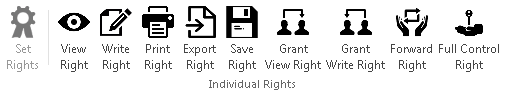
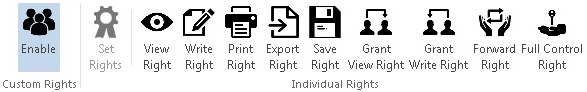
New construction. New information. Better look.

Changed region(s): [[0.0, 0.0217, 1.0, 0.7826], [0.4142, 0.8696, 0.6509, 0.9783], [0.0, 0.8696, 0.1479, 0.9783]]

diff --git a/content/000_enhancedRMS/functions.md b/content/000_enhancedRMS/functions.md
@@ -7,12 +7,10 @@ draft = false
 
 
 
-
-
 Das *enhancedRMS* AddIn besitzt eine Vielzahl an Rechten, die für User ausgesprochen werden können. Im Folgenden sind sämtliche Rechte einmal aufgelistet:
 
-1. View Right / Leserecht
-2. Write Right / Schreiberecht
+1. **View Right / Leserecht**
+2. **Write Right / Schreibrecht**
 3. Print Right / Druckrecht
 4. Export Right / Exportierrecht
 5. Save Right / Speicherrecht
@@ -21,87 +19,60 @@ Das *enhancedRMS* AddIn besitzt eine Vielzahl an Rechten, die für User ausgespr
 8. Forward Right / Das Recht auf Weiterleitung
 9. Full Control Right / Das Recht der vollen Kontrolle
 
-#### Das Leserecht
+Nur die in der Aufzählung markierten Rechte sind bislang implementiert. Diese können erfolgreich verwendet werden, um ein Dokument gegen unautorisiertes Öffnen beziehungsweise Bearbeiten zu schützen. Im Folgenden werden die Möglichkeiten aufgezeigt, die ein Nutzer bei gewährtem Recht erhält. Die noch nicht implementierten Rechte sind dabei ebenfalls aufgeführt. Ihr Grundgedanke und ihre mögliche Anwendung wurden vorerst mit in diese Auflistung aufgenommen.
 
-Das Leserecht ermöglicht es dem Benutzer den Text eines Dokumentes zu lesen. Dabei kann er jedoch nur den Text lesen, für welchen er auch das Leserecht ausgestellt bekommen hat. Besteht beispielsweise ein Dokument aus mehreren Kapiteln und der Autor des Dokumentes hat der besagten Person lediglich das Leserecht für das erste Kapitel erteilt, so kann dieser Nutzer auch lediglich das erste Kapitel lesen, nachdem er das Dokument geöffnet hat.
+Eine Anleitung, wie Sie ein Dokument mit einem Rechten versehen und den Dokumentenschutz anwenden finden Sie [hier](/000_enhancedrms/examples/#vergabe-von-rechten-für-ein-dokument)
 
-#### Das Schreiberecht
+### **Das Leserecht**
 
-Bei dem Schreiberecht kann der Nutzer, dem das Recht erteilt wurde, den Text innerhalb des Textabschnittes bearbeiten. Er kann lediglich innerhalb des Abschnittes Ergänzungen bzw. Löschungen vornehmen. Besitzt der Benutzer, abgesehen von dem Schreiberecht auf einen Textabschnitt, sonst beispielsweise nur das Leserecht auf sämtlichen anderen Textabschnitten eines Dokumentes, so sind diese unbearbeitbar.
+Das Leserecht ermöglicht es dem Benutzer den Text eines Dokumentes zu lesen. Dabei kann er jedoch nur den Text lesen, für welchen er auch das Leserecht ausgestellt bekommen hat. Besteht beispielsweise ein Dokument aus mehreren Kapiteln und der Autor des Dokumentes hat der besagten Person lediglich das Leserecht für das erste Kapitel erteilt, so kann dieser Nutzer auch lediglich das erste Kapitel lesen, nachdem er das Dokument geöffnet hat. Alle restlichen Textabschnitte werden dem Nutzer nicht angezeigt. Er hat keine Möglichkeit herauszufinden, ob das Dokument ursprünglich mehr Text enthält als er zu Sehen bekommt.
 
-#### Das Druckrecht
+### **Das Schreibrecht**
 
-**NOCH NICHT IMPLEMENTIERT**
-Mit Hilfe dieses Rechtes können Sie festlegen, welche Personen ihr Dokument drucken können. 
-**TODO: Wie soll dies geschehen? Textmakierung?**
+Bei dem Schreiberecht kann der Nutzer, dem das Recht erteilt wurde, den Text innerhalb des Textabschnittes bearbeiten. Er kann lediglich innerhalb des Abschnittes Ergänzungen bzw. Löschungen vornehmen. Jegliche andere Bereiche sind nicht zu beschreiben. Eine Markierung des Bereiches visualisiert dem Benutzer, in welchem Bereich er Änderungen vornhemen kann und in welchem Bereich nicht.
 
-#### Das Exportierrecht
+### Das Druckrecht
 
 **NOCH NICHT IMPLEMENTIERT**
-Dieses Recht ermöglicht dem Benutzer das Dokument zu exportieren. Exportieren umfasst hierbei den Export von einem Worddokument in ein Dokument mit anderer Endung. Beispielsweise kann eine .docx Datei per Export in eine .odt, .doc oder .rtf Datei umgewandelt werden. Außerdem kann aus ihr ein PDF/XPS Dokument erstellt werden.
-**TODO: Wie soll dies geschehen? Textmakierung?**
 
-#### Das Speicherrecht
+Mit Hilfe dieses Rechtes können Sie festlegen, welche Personen ihr Dokument drucken können. Dabei ist noch nicht bekannt, wie dieses Recht am Ende implementiert wird. Dabei könnte beispielsweise nur der markierte Bereich mit einem Druckrecht versehen  oder das komplette Dokument mit dem Setzen des Rechtes zum Drucken freigegeben werden.
 
-**NOCH NICHT IMPLEMENTIERT**
-Mit Hilfe dieses Rechts ist ein Benutzer lediglich in der Lage, das Dokument unter einem anderen Namen abzuspeichern (das Dokument zu kopieren).
-**TODO: Wie soll dies geschehen? Textmakierung?**
-
-#### Das Recht auf Weitergabe des Leserechts
+### Das Exportierrecht
 
 **NOCH NICHT IMPLEMENTIERT**
-Sobald Sie dieses Recht einem Benutzer aussprechen hat dieser die Möglichkeit, weiteren Nutzern das Leserecht zu erteilen. Geben Sie der Person allerdings dieses Recht nur für einen bestimmten Textabschnitt, so kann er auch nur für diesen Textabschnitt das Leserecht an andere Personen weitergeben.
+
+Dieses Recht ermöglicht dem Benutzer das Dokument zu exportieren. Exportieren umfasst hierbei den Export von einem Worddokument in ein Dokument mit anderer Endung. Beispielsweise kann eine .docx Datei per Export in eine .odt, .doc oder .rtf Datei umgewandelt werden. Außerdem kann aus ihr ein PDF/XPS Dokument erstellt werden. Auch hier ist weiterhin unklar, wie dieses in Zukunft implementiert wird.
 
 
-#### Das Recht auf Weitergabe des Schreiberechts
-
-**NOCH NICHT IMPLEMENTIERT**
-Auch hier hat der Benutzer, welcher dieses Recht zugesprochen bekommen hat, die Möglichkeit, anderen Nutzern das Schreibrecht zu erteilen. Geben Sie der Person allerdings dieses Recht nur für einen bestimmten Textabschnitt, so kann er auch nur für diesen Textabschnitt das Schreiberecht anderen Personen erteilen.
-
-#### Das Recht auf Weiterleitung
+### Das Speicherrecht
 
 **NOCH NICHT IMPLEMENTIERT**
-Dieses Recht befähigt eine Person, das Dokument per Email verschicken zu können. 
-**TODO: Wie soll dies geschehen? Textmakierung?**
 
-#### Das Recht der vollen Kontrolle
+Mit Hilfe dieses Rechts ist ein Benutzer lediglich in der Lage, das Dokument unter einem anderen Namen abzuspeichern (das Dokument zu kopieren). Wie die Prozedur beim Setzen des Rechtes aussehen soll, ist bislang ebenfalls unbekannt.
 
+### Das Recht auf Weitergabe des Leserechts
 
 **NOCH NICHT IMPLEMENTIERT**
-Besitzt ein Nutzer dieses Recht, so hat er die gleichen Möglichkeiten wie Sie als Author des Dokumentes. Diese Person gelangt vollen Schreibzugriff auf das Dokument, kann weiteren Nutzern Rechte aussprechen und ihr Dokument nach belieben formatieren, drucken, exportieren etc. 
+
+Sobald Sie dieses Recht einem Benutzer aussprechen, hat dieser die Möglichkeit weiteren Nutzern das Leserecht zu erteilen. Geben Sie der Person allerdings dieses Recht nur für einen bestimmten Textabschnitt, so kann er auch nur für diesen Textabschnitt das Leserecht an andere Personen weitergeben.
 
 
+### Das Recht auf Weitergabe des Schreiberechts
+
+**NOCH NICHT IMPLEMENTIERT**
+
+Auch hier hat der Benutzer, welcher dieses Recht zugesprochen bekommen hat, die Möglichkeit, anderen Nutzern das Schreibrecht zu erteilen. Geben Sie der Person allerdings dieses Recht nur für einen bestimmten Textabschnitt, so kann sie auch nur für diesen Textabschnitt das Schreiberecht anderen Personen erteilen.
+
+### Das Recht auf Weiterleitung
+
+**NOCH NICHT IMPLEMENTIERT**
+
+Dieses Recht befähigt eine Person, das Dokument per Email verschicken zu können. Dabei ist die Idee, dass die E-Mail beispielsweise an eine Person in einer anderen Firma geschickt werden kann, welche nicht im firmeninternen Active Directoy vorhanden ist. Geplant ist damit eine Ausweitung des Schutzes.
+
+### Das Recht der vollen Kontrolle
+
+**NOCH NICHT IMPLEMENTIERT**
+
+Besitzt ein Nutzer dieses Recht, so hat er die gleichen Möglichkeiten wie Sie als Autor des Dokumentes. Diese Person erlangt vollen Schreibzugriff auf das Dokument, kann weiteren Nutzern Rechte aussprechen und ihr Dokument nach belieben formatieren, drucken, exportieren und so weiter. 
 
 
-#### Vergabe von Rechten für ein Dokument
-1. Öffnen Sie Word.
-2. Klicken Sie auf „leeres Dokument“ bzw. öffnen Sie ein bereits verfasstes Dokument.
-3. Bearbeiten Sie das Dokument nach Ihren Vorlieben.
-4. Klicken Sie auf den Tab „enhancedRMS“.
-5. Melden Sie sich mit ihrem Benutzernamen und ihrem Passwort an. Hierbei werden die Logindaten benötigt, die Sie nach dem Hochfahren Ihres PCs eingeben müssen.  Nachdem Sie ihre Daten eingegeben haben, klicken Sie auf „Login“.
-6. Bei korrekter Eingabe können Sie nun Rechte für Ihr Dokument festlegen. Markieren Sie dazu den Textabschnitt, auf den Sie diverse Rechte geben möchten und suchen Sie sich Ihre gewünschten Rechte aus. Hierbei besteht die Möglichkeit mittels der *"General Rights"* Rechte für sämtliche Benutzer und mittels der *"Individual Rights"* Rechte für bestimmte Benutzer zu vergeben.
-6.1. Möchten Sie nun einem bestimmten Benutzer Rechte zuweisen, so öffnen Sie diese Leiste mit einem Klick auf *"Enable"* unter der Rubrik **Custom Rights**. Es öffnet sich nun ein weiterer Teil Ihrer Leiste. Auf der rechten Seite haben Sie nun die Möglichkeit, eine Person hinzuzufügen. Dazu klicken Sie in das Feld *" New User"* und geben dort die Email-Adresse der gewünschten Person ein. Mit einem Klick auf *"Add User"* fügen Sie diesen Benutzer hinzu. Dieser ist nun in dem Feld *"Existing Users"* aufgeführt. Wählen Sie in diesem Feld den Benutzer aus und klicken Sie die gewünschten Rechte für diese Person an. Denken Sie daran, den gewünschten Text zu markieren.
-7. Haben Sie nun Ihre Rechte für den markierten Textabschnitt ausgewählt, so müssen Sie diese nun *setzen*. Dazu klicken Sie auf *"Set Right"*. Haben Sie sowohl generelle Rechte als auch individuelle Rechte ausgewählt, so wird sowohl bei *"General Rights"* als auch bei *"Individual Rights"* ein Klick auf *"Set Rights"* benötigt.
-7.1. Bei einem Klick auf *"Set Rights"* unter den individuellen Rechten öffnen sich danach zwei Fenster bzw. Dialoge. In dem Ersten Fenster werden Sie gefragt, ob Sie, zusätzlich zu ihren individuellen Rechten, auch noch generelle Rechte für den Textabschnitt hinzufügen wollen (Rechte die für jede Person gelten).
-7.2 Im nächsten Fenster haben Sie die Möglichkeit, die eingegebene Person zu behalten oder sie direkt zu entfernen. Wollen Sie nun einer bestimmten Person für mehrere Textabschnitte Rechte zuweisen, so können Sie bei dieser Meldung auf *"Yes"* klicken. Somit sparen Sie sich die erneute Eingabe der Email-Adresse des Benutzers. Klicken Sie auf *"No"*, so wird der Nutzer aus den *"Existing Users"* gelöscht (Sie können Ihn dennoch wieder manuell hinzufügen).
-8. Sie können nun Schritt 5-6 beliebig oft wiederholen und beliebig vielen Personen auf verschiedenen Textabschnitten diverse Rechte aussprechen. 
-9. Haben Sie nun sämtliche Rechte gesetzt, so schließen Sie den Schutz mit einem Klick auf *"Apply"* (ganz links in der Leiste) ab. Danach wird das Dokument verschlüsselt und Sie können es abspeichern.
-10. **Beachte**: Der Schutz wird nur gewährt, wenn Sie das Dokument abspeichern nachdem Sie auf *"Apply"* geklickt haben.
-
-
-#### Ein Dokument öffnen
-
-1. Öffnen Sie Word.
-2. Klicken Sie auf „leeres Dokument“.
-3. Danach sollte sich ein leeres Dokument vor Ihnen befinden, in welches Sie nun schreiben könnten.
-4. Klicken Sie auf den Tab „enhancedRMS“.
-5. Melden Sie sich mit Ihrem Benutzernamen und Ihrem Passwort an. Hierbei werden die Logindaten benötigt, die Sie nach dem Hochfahren Ihres PCs eingeben müssen.  Nachdem Sie Ihre Daten eingegeben haben, klicken Sie auf „Login“.
-6. Bei korrekter Eingabe können Sie nun ein Dokument öffnen. Falls eine inkorrekte Eingabe getätigt wurde, erscheinen zwei Fehlermeldungen.
-7. Öffnen Sie Ihr Dokument.
-7.1. Um ein Dokument innerhalb von Word zu öffnen, klicken Sie in der oberen, linken Ecke auf „Datei“. In dem neuen Fenster klicken Sie nun auf „Öffnen“ und danach können Sie mit einem Klick auf ‚Computer‘ ihr zu öffnendes Dokument auswählen.
-7.2 Andernfalls können Sie Ihr Dokument auch außerhalb von Word per Linksklick öffnen. Hierbei sollten Sie beachten, dass das Word-Fenster, welches Sie in Schritt 1-6 geöffnet haben, dabei geöffnet bleiben muss. Sobald Sie kein Word-Fenster mehr offen haben, ist Ihr erfolgreicher Login nicht mehr vorhanden und Sie können das Dokument nicht wie gewünscht öffnen.
-8. Ist das Dokument nun geöffnet und besitzen Sie die nötigen Rechte, so wird Ihnen der Inhalt angezeigt.
-
-
-
-#WICHTIG! MAN MUSS SICH EINLOGGEN UM EIN DOKUMENT ZU SIGNEN

diff --git a/content/000_enhancedRMS/ui.md b/content/000_enhancedRMS/ui.md
@@ -5,47 +5,43 @@ draft = false
 +++
 
 
-### Die Benutzeroberfläche <a name="Die Benutzeroberfläche"></a>
+Für einen groben Überblick werden in den folgenden Absätzen sämtliche Bereiche der grafischen Oberfläche erklärt. Hier geht es vorerst nur um die Funktionsweisen der Bereiche. Eine genaue Anleitung, wie ein Dokument verfasst beziehungsweise geöffnet werden kann finden Sie unter [Anwendungsbeispiele](/000_enhancedrms/examples).
 
 
-Die Taskleiste des AddIns besteht aus verschiedenen Abschnitten. Jeder Abschnitt wird nun seperat erklärt.
+## Das Login-Feld
 
-
-#### Das Login-Feld <a name="Das Login-Feld"></a>
-
-![Image 1](/img/001_Login.png)
+![Image 1](/img/GUI_1.jpg)
 
 Dieser Abschnitt wird zur Authentifizierung benötigt. In dem Feld *Username* wird Ihr Nutzername eingetragen. Dieser sollte im *Active Directory* (Rechteverwaltung Ihrer Firma) eingetragen und meistens Ihr Anmeldename von Ihrem Computer sein. Das Gleiche gilt auch für das *Password*. Dieses ist dann das Passwort, welches Sie bei Ihrem Computerstart eingeben müssen.
-Sobald die Daten eingegeben sind, kann mit Hilfe des *Login*-Symbols die Anmeldung durchgeführt werden.
+Sobald die Daten eingegeben sind, kann mit Hilfe des *Login*-Symbols die Anmeldung durchgeführt werden. Wundern Sie sich dabei nicht, dass das AddIn keine Reaktion in Form einer Rückmeldung abgibt. Diese ist noch nicht implementiert worden.
 
-Neben den beiden Eingabefenstern befindet sich ein vorerst ausgegrauter Knopf namens *Apply*. Dieser wird benötigt, sobald ein Dokument erstellt und daraufhin diverse Rechte vergeben wurden. Dieser Knopf sorgt dafür, dass sämtliche Rechte angepasst werden. Wie genau eine Rechtevergabe für ein Dokuemt funktioniert lesen Sie unter [Vergabe von Rechten für ein Dokument](/000_enhancedrms/functions/#vergabe-von-rechten-für-ein-dokument).
-
-
-#### Die generellen Rechte <a name="Die generellen Rechte"></a>
-
-![Image 1](/img/002_GenerelleRechte.png)
+Neben den beiden Eingabefenstern befindet sich ein vorerst ausgegrauter Knopf namens *Apply*. Dieser wird benötigt, sobald ein Dokument erstellt und daraufhin diverse Rechte vergeben wurden. Nach dem Betätigen des Knopfes wird der Dokumentenschutz und sämtliche vergebenen Rechte auf das Dokument angewandt. Wie genau eine Rechtevergabe für ein Dokuemt funktioniert lesen Sie unter [Vergabe von Rechten für ein Dokument](/000_enhancedrms/examples/#vergabe-von-rechten-für-ein-dokument).
 
 
-In diesem Abschnitt findet die Rechteverwaltung für Ihr Dokument statt. Sie haben hier die Möglichkeit die gewünschten Rechte für Ihr Dokuemnt festzulegen. Wie der Name des Abschnitts schon vermuten lässt werden hier die generellen Rechte vergeben. Das bedeutet, jeder Nutzer der das Dokument öffnet besitzt die gleichen Rechte. Bislang ist hier keine individuelle Anpassung möglich.
-Wählen Sie hier nun die Rechte, die für alle Nutzer vergeben werden sollen. Hierbei ist eine Mehrfachauswahl möglich. Möchten Sie eine Person spezielle Rechte zuweisen, so können Sie dies in der nächsten Rubrik tun.
+## Die generellen Rechte
+
+![Image 2](/img/GUI_2.jpg)
+
+
+In diesem Abschnitt findet die Rechteverwaltung für Ihr Dokument statt. Sie haben hier die Möglichkeit die gewünschten Rechte für Ihr Dokument festzulegen. Wie der Name des Abschnitts schon vermuten lässt werden hier die generellen Rechte vergeben. Das bedeutet, jeder Nutzer der das Dokument öffnet besitzt die gleichen Rechte. Bislang ist hier keine individuelle Anpassung möglich.
+Wählen Sie hier nun die Rechte, die für alle Nutzer vergeben werden sollen. Es besteht die Möglichkeit, mehrere Rechte auszuwählen und sie gleichzeitig zu setzen. Möchten Sie einer Person spezielle Rechte zuweisen, so können Sie dies in der nächsten Rubrik tun.
 
 Haben Sie Ihren Text markiert und bestimmte Rechte ausgewählt, so wählen Sie den Knopf *Set Rights* und das AddIn setzt für den markierten Bereich die ausgewählten Rechte.
 
 
-#### Die individuellen Rechte <a name="Die individuellen Rechte"></a>
+## Die individuellen Rechte
 
-![Image 1](/img/003_IndividuelleRechte.png)
+![Image 3](/img/GUI_3.jpg)
 
 Mit Hilfe dieses Abschnitts können Sie vereinzelten Personen spezielle Rechte freigeben. Die Funktionsweise ist hierbei die Selbe wie bei den [generellen Rechten](#Die generellen Rechte). Markieren Sie einen Textabschnitt, wählen Sie das Recht für den Benutzer und bestätigen Sie dies mit einem Klick auf *Set Rights*. Auch hier ist eine Mehrfachauswahl von Rechten möglich.
 Um zu definieren, welcher Person diese Rechte zugesprochen werden, wird der nächste Abschnitt verwendet.
 
 
-#### Das Nutzermanagement <a name="Das Nutzermanagement"></a>
+## Das Nutzermanagement
 
-![Image 1](/img/004_User.png)
+![Image 4](/img/GUI_4.jpg)
 
-Diese Rubrik wird für die Nutzerauswahl benötigt. Hier haben Sie die Möglichkeit, Personen hinzuzufügen und für hinzugefügte Personen Rechte an Ihrem Dokument zu vergeben. Geben Sie unter *New User* die E-Mail Adresse des Nutzers ein, den Sie zur Rechteverwaltung hinzufügen möchten. Hierbei muss die E-Mail Adresse des Nutzers eingegeben werden, welche im *Active Directory* eingetragen ist. Mit einem Klick auf *Add User* wird dieser Nutzer Hinzugefügt.
+Diese Rubrik wird für die Nutzerauswahl benötigt. Hier haben Sie die Möglichkeit, Personen hinzuzufügen und für hinzugefügte Personen Rechte an Ihrem Dokument zu vergeben. Geben Sie unter *New User* die E-Mail Adresse des Nutzers ein, den Sie zur Rechteverwaltung hinzufügen möchten. Hierbei muss die E-Mail Adresse des Nutzers eingegeben werden, welche im *Active Directory* eingetragen ist. Mit einem Klick auf *Add User* wird dieser Nutzer hinzugefügt. Wählen Sie nun mit Hilfe des *Existing User's* Menü den Benutzer, für welchen Sie eine individuelle Rechteanpassung vornehmen möchten. Unter dem Punkt *Existing User's* werden sämtliche Nutzer aufgelistet, die Sie bereits hinzugefügt haben. Dort können Sie nun einen Nutzer auswählen und für diesen die individuellen Rechte anlegen. Benötigen Sie einen Nutzer nicht mehr, so können Sie, bei ausgewähltem Nutzer im *Existing User's* Menü, diesen mit einem Klick auf *Remove User* entfernen.
+Haben Sie individuelle Rechte für einen Nutzer gesetzt und ihn nachträglich, bevor sie den Dokumentenschutz angewendet haben, entfernt? Keine Sorge, ihre Rechteanpassungen für diesen Benutzer sind weiterhion übernommen. Wenden Sie nur den Dokumentenschutz mit einem Klick auf  [*Apply*](/000_enhancedrms/ui/#das-login-feld) an und ihr Dokument ist mit den gesetzten Rechten geschützt.
 
-Unter dem Punkt *Existing User's* werden sämtliche Nutzer aufgelistet, die Sie bereits hinzugefügt haben. Dort können Sie nun einen Nutzer auswählen und für diesen die individuellen Rechte anlegen.
 
-%TODO Was ist mit dem Löschen eines Users, gehen dann auch seine Rechte flöten?

diff --git a/content/000_enhancedRMS/examples.md b/content/000_enhancedRMS/examples.md
@@ -1,0 +1,40 @@
++++
+title = "Anwendungsbeispiele"
+date = 2017-09-16T15:25:49+02:00
+draft = false
++++
+
+
+
+## Vergabe von Rechten für ein Dokument
+1. Öffnen Sie Word.
+2. Klicken Sie auf „leeres Dokument“ bzw. öffnen Sie ein bereits verfasstes Dokument.
+3. Bearbeiten Sie das Dokument nach Ihren Vorlieben.
+4. Klicken Sie auf den Tab „enhancedRMS“.
+5. Melden Sie sich mit ihrem Benutzernamen und ihrem Passwort an. Hierbei werden die Logindaten benötigt, die Sie nach dem Hochfahren Ihres PCs eingeben müssen.  Nachdem Sie ihre Daten eingegeben haben, klicken Sie auf „Login“.
+6. Bei korrekter Eingabe können Sie nun Rechte für Ihr Dokument festlegen. Markieren Sie dazu den Textabschnitt, auf den Sie diverse Rechte geben möchten und suchen Sie sich Ihre gewünschten Rechte aus. Hierbei besteht die Möglichkeit mittels der *"General Rights"* Rechte für sämtliche Benutzer und mittels der *"Individual Rights"* Rechte für bestimmte Benutzer zu vergeben.
+6.1. Möchten Sie nun einem bestimmten Benutzer Rechte zuweisen, so öffnen Sie diese Leiste mit einem Klick auf *"Enable"* unter der Rubrik **Custom Rights**. Es öffnet sich nun ein weiterer Teil Ihrer Leiste. Auf der rechten Seite haben Sie nun die Möglichkeit, eine Person hinzuzufügen. Dazu klicken Sie in das Feld *" New User"* und geben dort die Email-Adresse der gewünschten Person ein. Mit einem Klick auf *"Add User"* fügen Sie diesen Benutzer hinzu. Dieser ist nun in dem Feld *"Existing Users"* aufgeführt. Wählen Sie in diesem Feld den Benutzer aus und klicken Sie die gewünschten Rechte für diese Person an. Denken Sie daran, den gewünschten Text zu markieren.
+7. Haben Sie nun Ihre Rechte für den markierten Textabschnitt ausgewählt, so müssen Sie diese nun *setzen*. Dazu klicken Sie auf *"Set Right"*. Haben Sie sowohl generelle Rechte als auch individuelle Rechte ausgewählt, so wird sowohl bei *"General Rights"* als auch bei *"Individual Rights"* ein Klick auf *"Set Rights"* benötigt.
+7.1. Bei einem Klick auf *"Set Rights"* unter den individuellen Rechten öffnen sich danach zwei Fenster bzw. Dialoge. In dem Ersten Fenster werden Sie gefragt, ob Sie, zusätzlich zu ihren individuellen Rechten, auch noch generelle Rechte für den Textabschnitt hinzufügen wollen (Rechte die für jede Person gelten).
+7.2 Im nächsten Fenster haben Sie die Möglichkeit, die eingegebene Person zu behalten oder sie direkt zu entfernen. Wollen Sie nun einer bestimmten Person für mehrere Textabschnitte Rechte zuweisen, so können Sie bei dieser Meldung auf *"Yes"* klicken. Somit sparen Sie sich die erneute Eingabe der Email-Adresse des Benutzers. Klicken Sie auf *"No"*, so wird der Nutzer aus den *"Existing Users"* gelöscht (Sie können Ihn dennoch wieder manuell hinzufügen).
+8. Sie können nun Schritt 5-6 beliebig oft wiederholen und beliebig vielen Personen auf verschiedenen Textabschnitten diverse Rechte aussprechen. 
+9. Haben Sie nun sämtliche Rechte gesetzt, so schließen Sie den Schutz mit einem Klick auf *"Apply"* (ganz links in der Leiste) ab. Danach wird das Dokument verschlüsselt und Sie können es abspeichern.
+10. **Beachte**: Der Schutz wird nur gewährt, wenn Sie das Dokument abspeichern nachdem Sie auf *"Apply"* geklickt haben.
+
+
+## Ein Dokument öffnen
+
+1. Öffnen Sie Word.
+2. Klicken Sie auf „leeres Dokument“.
+3. Danach sollte sich ein leeres Dokument vor Ihnen befinden, in welches Sie nun schreiben könnten.
+4. Klicken Sie auf den Tab „enhancedRMS“.
+5. Melden Sie sich mit Ihrem Benutzernamen und Ihrem Passwort an. Hierbei werden die Logindaten benötigt, die Sie nach dem Hochfahren Ihres PCs eingeben müssen.  Nachdem Sie Ihre Daten eingegeben haben, klicken Sie auf „Login“.
+6. Bei korrekter Eingabe können Sie nun ein Dokument öffnen. Falls eine inkorrekte Eingabe getätigt wurde, erscheinen zwei Fehlermeldungen.
+7. Öffnen Sie Ihr Dokument.
+7.1. Um ein Dokument innerhalb von Word zu öffnen, klicken Sie in der oberen, linken Ecke auf „Datei“. In dem neuen Fenster klicken Sie nun auf „Öffnen“ und danach können Sie mit einem Klick auf ‚Computer‘ ihr zu öffnendes Dokument auswählen.
+7.2 Andernfalls können Sie Ihr Dokument auch außerhalb von Word per Linksklick öffnen. Hierbei sollten Sie beachten, dass das Word-Fenster, welches Sie in Schritt 1-6 geöffnet haben, dabei geöffnet bleiben muss. Sobald Sie kein Word-Fenster mehr offen haben, ist Ihr erfolgreicher Login nicht mehr vorhanden und Sie können das Dokument nicht wie gewünscht öffnen.
+8. Ist das Dokument nun geöffnet und besitzen Sie die nötigen Rechte, so wird Ihnen der Inhalt angezeigt.
+
+
+
+#WICHTIG! MAN MUSS SICH EINLOGGEN UM EIN DOKUMENT ZU SIGNEN

diff --git a/content/000_enhancedRMS/protected_document.md b/content/000_enhancedRMS/protected_document.md
@@ -1,0 +1,16 @@
++++
+title = "Ein geschütztes Dokument"
+date = 2017-09-16T15:25:49+02:00
+draft = false
++++
+
+Das AddIn ermöglicht Ihnen eine feingranulare Anpassung von Rechten an Ihrem Dokument. Setzen Sie einige Rechte für Benutzer, so muss sicher gestellt werden, dass sich nur diese auch den Inhalt des Dokumentes anzeigen lassen können. Doch wie sieht ein geschütztes Dokument aus?
+
+![Protected](/img/003_Protected.png)
+
+Das oben platzierte Bild zeigt Ihnen, wie ein Dokument beim normalen Öffnen über Word einem Benutzer angezeigt wird. Ihr Inhalt ist geschützt, es gibt keine Möglichkeit darauf zuzugreifen.
+Dieser Inhalt wird jedem Benutzer angezeigt, der dieses Dokument ohne Authentifizierung probiert zu öffnen. Sowohl bei nicht installiertem AddIn, als auch bei installiertem AddIn. Authentifiziert sich der User jedoch vor dem Öffnen des Dokumentes, so wird ihm beim Öffnen der für ihn freigegebene Bereich des Dokumentes angezeigt. Wie genau Sie ein Dokument öffnen oder welche Vorraussetzungen dafür gelten müssen finden Sie [hier](/000_enhancedrms/functions/#ein-dokument-öffnen).
+
+Erhalten Sie nun ein Dokument, welches mit dem Dokumentenschutz versehen ist, aber besitzen das Word AddIn nicht, so besteht keine Möglichkeit an den wahren Inhalt des Dokumentes zu gelangen. Laden Sie sich hierzu bitte das AddIn herunter.
+
+Haben Sie Ihr Dokument erfolgreich geschützt wird dieses DOkument von einer authentifizierten Person geöffnet, welche allerdings keine Rechte für Ihr Dokument ausgesprochen bekommen hat, so wird war die Meldung aus dem obigen Bild entfernt, allerdings wird sie durch ein leeres Dokument ersetzt. Besitzt ein Nutzer keinerlei Rechte auf Ihr Dokument, so wird ihm nach dem Entfernen des Dokumentenschutzes lediglich eine leere Seite angezeigt.

diff --git a/content/000_enhancedRMS/_index.md b/content/000_enhancedRMS/_index.md
@@ -3,7 +3,10 @@ title = "Das enhancedRMS AddIn"
 chapter = true
 +++
 
-Dieses AddIn ist eine Erweiterung des *Right Management Service* (RMS), welcher 2003 von Microsoft veröffentlicht wurde. Bei diesem hatte man die Möglichkeit, komplette Dokumente zu verschlüsseln und sie von einer selektierten Person wieder entschlüsseln zu lassen.
+Das *enhancedRMS* ist eine Erweiterung des *Right Management Service* (RMS), welcher 2003 von Microsoft veröffentlicht wurde. Bei diesem hatte man die Möglichkeit, komplette Dokumente zu verschlüsseln und sie von einer selektierten Person wieder entschlüsseln zu lassen.
 Dieses AddIn verschlüsselt zwar auch das Dokument, allerdings bietet es noch weitere Möglichkeiten. Sie haben als Verfasser eines Dokumentes die Möglichkeit, diverse Rechte für dieses Dokument anderen Nutzern zu gewähren. Allerdings können Sie mit Hilfe dieses AddIns nicht nur Rechte für das gesamte Dokument, sondern für sämtliche Textabschnitte vergeben. Somit besteht die Möglichkeit, den Text auf verschiedenste Benutzer anzupassen.
 
+Mit Hilfe der Intergration innerhalb von Microsoft Word können Sie problemlos, beim Erstellen eines Dokumentes, bereits Rechte für diverse Nutzer verteilen. So können Sie ihr Dokument beispielsweise gegen unautorisiertes Öffnen schützen oder verhindern, dass ein Nutzer Textblöcke verändern kann.
+
 Diese Nutzerdokumentation beschreibt sämtliche Funktionen, schildert die Bedienung und erklärt das AddIn so, dass Sie danach sämtliche Funktionen reibungslos nutzen können.
+

diff --git a/content/000_enhancedRMS/qa.md b/content/000_enhancedRMS/qa.md
@@ -1,0 +1,12 @@
++++
+title = "Häufig gestellte Fragen"
+date = 2017-09-16T15:25:49+02:00
+draft = false
++++
+
+
+**Frage**: Ich bekomme folgende Meldung: *Found sections which are not protected. SHould this sections be view only for everyone?*. Was soll ich tun? <br>
+**Antwort**: Diese Meldung tritt auf, sobald sie versuchen den Dokumentenschutz anzuwenden aber nicht jeder Bereich des Dokumentes mit einem Recht versehen wurde. Drücken Sie bei dieser Meldung auf *Yes*, so werden alle Bereiche auf die bislang kein Recht ausgesprochen wurden mit einem generellen Leserecht versehen und der Dokumentenschutz angewendet. Klicken Sie auf *No*, so wird der Dokumentenschutz nicht angewendet und Sie können den übrigen Textabschnitten Ihre gewünschten Rechte zuweisen.
+
+**Frage**: Was bedeutet *"Bereiche, die noch nicht geschützt sind"*? <br>
+**Antwort**: Bei noch nicht geschützten Bereichen handelt es sich um Bereiche Ihres Dokumentes, welche bei dem Versuch den Dokumentenschutz anzuwenden noch nicht mit Rechten versehen wurden.

diff --git a/content/_index.md b/content/_index.md
@@ -5,4 +5,4 @@ draft = false
 +++
 # enhanced RMS
 
-Welcome to your documentation!
+Welcome to my documentation!
